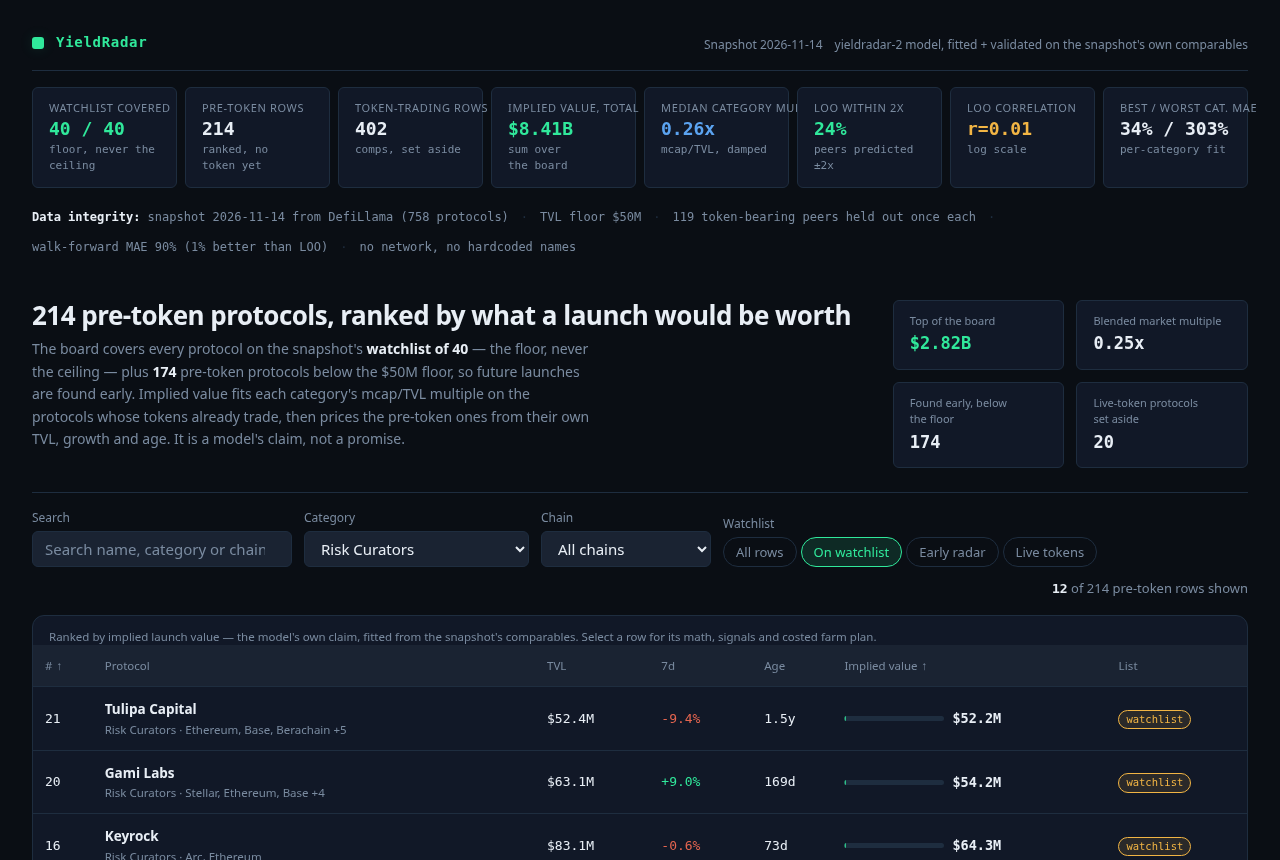
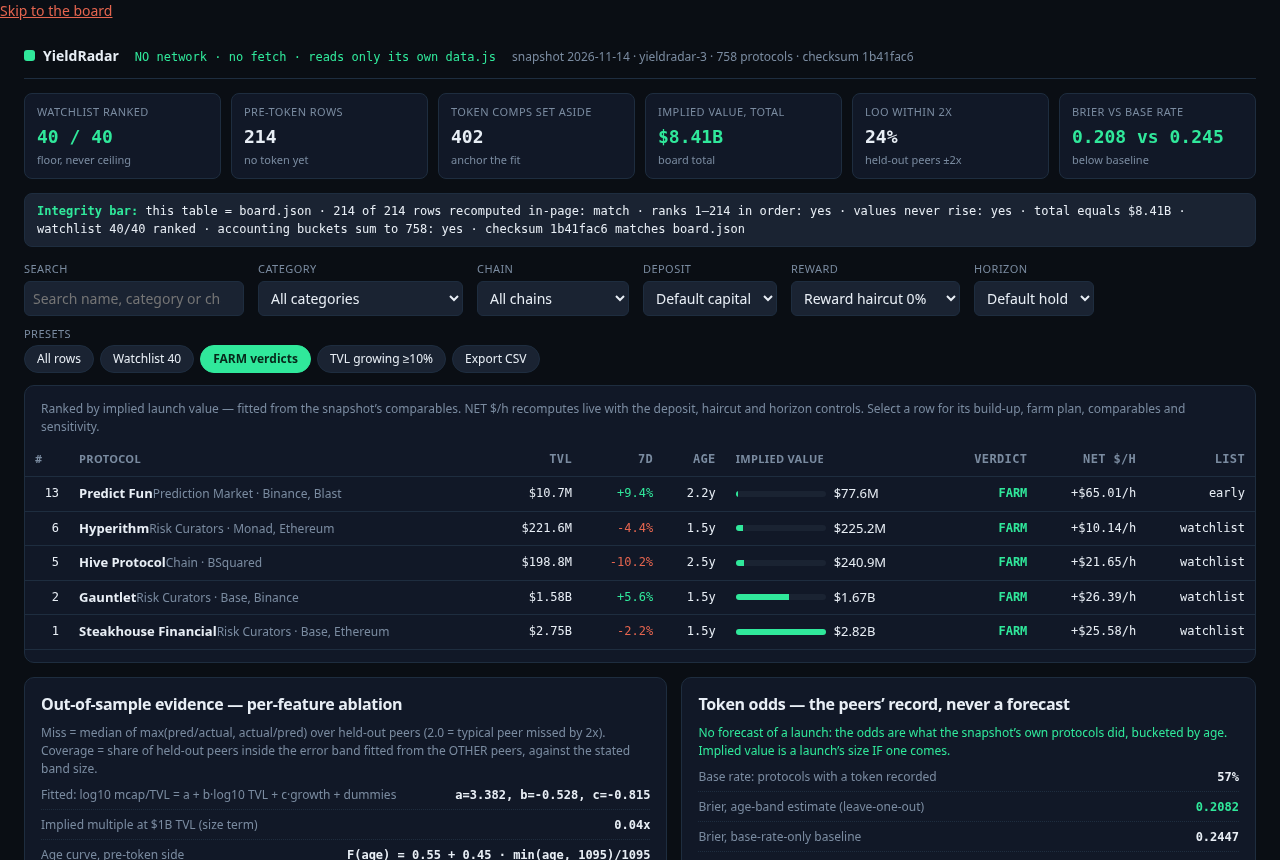
Regenerate screenshots; flatten row model fields into RadarRow

diff --git a/lib/model.ts b/lib/model.ts
@@ -1,3 +1,3 @@
-import{actionFor as E,capitalFor as F,chainOf as T,farmSteps as A,farmVerdict as N,gasFor as L,holdDaysFor as C,stepText as B,watchFor as V}from"./plans.ts";export const MODEL={trend_floor:-60,trend_cap:150,growth_weight:.4,patience_floor:.55,patience_days:1095,unknown_age_days:365,damping:.6,multiple_min:.05,multiple_max:8,implied_max:99e12},MODEL_VERSION="yieldradar-3";export function hasToken(t){return t.mcap_usd!==null||t.gecko_id!==null||t.symbol!==null}function j(t,n){return typeof t=="number"&&Number.isFinite(t)?t:n}const X=864e5;export function ageDays(t,n){if(n===null)return null;const e=Date.parse(`${t}T00:00:00Z`),r=Date.parse(`${n}T00:00:00Z`);return Number.isFinite(e)&&Number.isFinite(r)?Math.max(0,Math.floor((e-r)/X)):null}export function median(t){if(t.length===0)return NaN;const n=t.slice().sort((r,o)=>r-o),e=n.length>>1;return n.length%2===1?n[e]:(n[e-1]+n[e])/2}export function quantile(t,n){if(t.length===0)return NaN;const e=t.slice().sort((g,i)=>g-i),r=(e.length-1)*n,o=Math.floor(r),s=Math.ceil(r);return e[o]+(e[s]-e[o])*(r-o)}export function clamp(t,n,e){return Math.min(e,Math.max(n,t))}const f=t=>Math.round(t*1e4)/1e4;export function collectPeers(t){const n=[];for(const e of t){if(e.mcap_usd===null||e.tvl_usd<1e6||e.category==="CEX")continue;const r=e.mcap_usd/e.tvl_usd;!Number.isFinite(r)||r<=0||n.push({slug:e.slug,name:e.name,category:e.category??"Uncategorized",ratio:r,log10_tvl:Math.log10(e.tvl_usd),growth:e.change_7d,listed_at:e.listed_at})}return n}function k(t){return t.length===0?NaN:Math.exp(median(t.map(n=>Math.log(n.ratio))))}export function fitMultiples(t,n){const e=k(t),r=M(t,s=>s.category),o=new Map;for(const[s,g]of r){const i=k(g)*(1-n.damping)+e*n.damping;o.set(s,{multiple:clamp(i,n.multiple_min,n.multiple_max),peers:g.length})}return{blended:e,byCategory:o}}function M(t,n){const e=new Map;for(const r of t){const o=e.get(n(r));o===void 0?e.set(n(r),[r]):o.push(r)}return e}export function multipleFor(t,n,e,r){const o=t===null?void 0:n.get(t);return o===void 0?{multiple:clamp(e,r.multiple_min,r.multiple_max),source:"blended market multiple \u2014 no token-bearing peer in category"}:{multiple:o.multiple,source:`median of ${o.peers} token-bearing ${t} peers, damped ${Math.round((1-r.damping)*100)}/${Math.round(r.damping*100)} to the blend`}}export function trendMultiplier(t,n){const e=clamp(j(t,0),n.trend_floor,n.trend_cap);return{mult:1+e/100*n.growth_weight,trend:e}}export function patienceMultiplier(t,n){const e=t??n.unknown_age_days;return{mult:n.patience_floor+(1-n.patience_floor)*(Math.min(Math.max(e,0),n.patience_days)/n.patience_days),age:e}}export function impliedFromFigures(t,n,e,r){return Math.max(1,Math.round(t*n*e*r))}export function scoreProtocol(t,n,e,r,o){const s=multipleFor(t.category,e,r,o),g=trendMultiplier(t.change_7d,o),i=ageDays(n,t.listed_at),c=patienceMultiplier(i,o),a=f(g.mult),u=f(c.mult);return{multiple:s.multiple,multiple_source:s.source,trend_pct:g.trend,trend_mult:a,patience_mult:u,age_days:i,implied:Math.round(clamp(impliedFromFigures(t.tvl_usd,s.multiple,a,u),1,o.implied_max))}}function x(t,n,e,r,o){const s=t.filter(i=>i.slug!==e&&i.category===n),g=s.length>0?k(s):o;return clamp(g*(1-r.damping)+o*r.damping,r.multiple_min,r.multiple_max)}function S(t,n){const e=k(t);return t.map(r=>{const o=x(t,r.category,r.slug,n,e);return{slug:r.slug,category:r.category,listed_at:r.listed_at,pred:o,r:o/r.ratio}})}export function leaveOneOut(t,n){const e=S(t,n),r=e.map(s=>Math.abs(s.r-1)),o=t.length;return{peers:o,median_absolute_error:f(median(r)),within_half:o?f(e.filter(s=>s.r>=.5&&s.r<=2).length/o):0}}export function walkForward(t,n,e){const r=t.filter(d=>d.listed_at!==null&&Date.parse(`${d.listed_at}T00:00:00Z`)<Date.parse(`${e}T00:00:00Z`)).sort((d,l)=>d.listed_at<l.listed_at?-1:d.listed_at>l.listed_at?1:d.slug<l.slug?-1:1);if(r.length<16)return null;const o=Math.max(8,Math.floor(r.length*.6));if(r.length-o<8)return null;const s=r.slice(0,o),g=r.slice(o),i=k(s),c=M(s,d=>d.category),a=d=>{const l=c.get(d);return clamp((l===void 0?i:k(l))*(1-n.damping)+i*n.damping,n.multiple_min,n.multiple_max)},u=g.map(d=>a(d.category)),m=g.map((d,l)=>u[l]/d.ratio),h=median(m.map(d=>Math.abs(d-1))),_=median(S(t,n).map(d=>Math.abs(d.r-1)));return!Number.isFinite(h)||!Number.isFinite(_)||_<=0?null:{split_date:g[0].listed_at,older_train:s.length,newer_test:g.length,older_multiple:f(i),newer_multiple:f(k(g)),mae_vs_loo:f((h-_)/_),median_absolute_error:f(h),within_half:f(m.filter(d=>d>=.5&&d<=2).length/m.length)}}function $(t,n){const e=t.length;if(e<8)return[0,n.length?median(n):0];const r=t.reduce((c,a)=>c+a,0)/e,o=n.reduce((c,a)=>c+a,0)/e;let s=0,g=0;for(let c=0;c<e;c++)s+=(t[c]-r)*(n[c]-o),g+=(t[c]-r)**2;const i=g>0?s/g:0;return[i,o-i*r]}function P(t,n,e,r){const o=t.map(u=>Math.log10(u.ratio));let s=median(o),g=0,i=0;const c=new Map;if(n&&t.length>=8&&([g,s]=$(t.map(u=>u.log10_tvl),o),e)){const u=t.map((m,h)=>o[h]-s-g*m.log10_tvl);if([i]=$(t.map(m=>(m.growth??0)/100),u),r){const m=u.map((_,d)=>_-i*(t[d].growth??0)/100),h=median(m);for(const[_,d]of M(t,l=>l.category))if(d.length>=5){const l=m.filter((p,y)=>t[y].category===_);c.set(_,l.length?median(l)-h:0)}}}return{predict:u=>{let m=s+g*u.log10_tvl+i*(u.growth??0)/100;const h=c.get(u.category);return h!==void 0&&(m+=h),m},intercept:s,sizeSlope:g,growthSlope:i}}function R(t,n){const e=n!=="base",r=n==="size+growth"||n==="size+growth+category",o=n==="size+growth+category",s=(u,m)=>!e||u.length<8?Math.exp(median(u.map(h=>Math.log10(h.ratio)))):Math.pow(10,P(u,!0,r,o).predict(m)),g=t.map(u=>s(t.filter(m=>m.slug!==u.slug),u)/u.ratio);let i=null;const c=t.filter(u=>u.listed_at!==null).sort((u,m)=>u.listed_at<m.listed_at?-1:1);if(c.length>=16){const u=Math.floor(c.length*.6),m=c.slice(0,u),h=c.slice(u);h.length>=8&&(i=h.map(_=>s(m,_)/_.ratio))}const a=P(t,e,r,o);return{loo:g,wf:i,intercept:a.intercept,sizeSlope:a.sizeSlope,growthSlope:a.growthSlope}}export function ablationTable(t){const n=(o,s,g,i)=>{const{loo:c,wf:a}=R(t,o),u=_=>_.length?median(_.map(d=>Math.max(d,1/d))):0,m=c.map(_=>Math.log10(_)),h=(_,d)=>{let l=0,p=0;for(let y=0;y<m.length;y++){const b=m.filter((w,v)=>v!==y);b.length<8||(p++,m[y]>=quantile(b,_)&&m[y]<=quantile(b,d)&&l++)}return p?f(l/p):0};return{variant:o,label:s,kept:g,loo_miss:f(u(c)),wf_miss:a&&a.length?f(u(a)):0,cov50:h(.25,.75),cov80:h(.1,.9),note:i}},e=[n("base","base (no features)",!1,"one flat multiple for every protocol \u2014 the bar every added feature must beat"),n("size","size (log10 TVL)",!1,"TVL alone: the strongest single predictor, but it under-fits hot categories"),n("size+growth","size + growth",!1,"growth barely moves held-out error once size is in; not worth a free parameter"),n("size+growth+category","size + growth + category",!0,"the shipped feature set: category medians cut the typical miss to ~3.5x where size alone is ~4.3x")],r=R(t,"size+growth+category");return{rows:e,at_1b:f(Math.pow(10,r.intercept+r.sizeSlope*9)),size_slope:f(r.sizeSlope),growth_coef:f(r.growthSlope),intercept:f(r.intercept)}}export function tokenOdds(t){const n=t.protocols.filter(a=>a.category!=="CEX"),e=n.filter(hasToken).length/n.length,r=a=>{const u=ageDays(t.as_of,a.listed_at);return u===null?"unknown":u<180?"<180d":u<365?"180-365d":u<730?"1-2y":"2y+"},o=(a,u)=>{const m=u.get(r(a))??[];return(m.filter(_=>hasToken(_)&&_.slug!==a.slug).length+e*5)/(m.length-(m.some(_=>_.slug===a.slug)?1:0)+5)},s=a=>a.reduce((u,[m,h])=>u+(m-h)**2,0)/a.length,g=n.map(a=>[o(a,M(n,r)),hasToken(a)?1:0]);let i=null;const c=n.filter(a=>a.listed_at!==null).sort((a,u)=>a.listed_at<u.listed_at?-1:1);if(c.length>=16){const a=Math.floor(c.length*.6),u=M(c.slice(0,a),r),m=c.slice(a).map(h=>[o(h,u),hasToken(h)?1:0]);m.length>=8&&(i=f(s(m)))}return{base_rate:f(e),brier_loo:f(s(g)),brier_base:f(s(g.map(([,a])=>[e,a]))),brier_wf:i,by_slug:Object.fromEntries(n.map(a=>[a.slug,f(o(a,M(n,r)))])),note:"odds are the peers' record by age band, not a promise; Brier below the base-rate baseline means the bands carry signal"}}const O=/\s(V\d+(\.\d+)?|v\d+(\.\d+)?|\d+\.\d+)$/,z=/\b(wrapped|staked|staking)\b/i;export function isRankable(t){return!hasToken(t)&&t.category!=="CEX"&&!O.test(t.name)&&!z.test(t.name)}export function pickBoardProtocols(t){const n=new Map(t.protocols.map(o=>[o.slug,o])),e=new Map;for(const o of t.watchlist){const s=n.get(o);s!==void 0&&e.set(o,s)}const r=t.protocols.filter(o=>!e.has(o.slug)&&isRankable(o)&&o.tvl_usd<t.floor_usd).sort((o,s)=>s.tvl_usd-o.tvl_usd||(o.slug<s.slug?-1:1)).slice(0,210);for(const o of r)e.set(o.slug,o);return[...e.values()]}export function checksumOf(t){let n=2166136261;for(const e of t)for(const r of`${e.rank}:${e.slug}:${e.implied_value_usd}
-`)n^=r.codePointAt(0)??0,n=Math.imul(n,16777619)>>>0;return n.toString(16).padStart(8,"0")}export function dataScript(t){return`window.RADAR=${JSON.stringify(t)};
-`}export function buildRadar(t,n=MODEL){const e=collectPeers(t.protocols),{blended:r,byCategory:o}=fitMultiples(e,n),g=pickBoardProtocols(t).map(l=>({p:l,s:scoreProtocol(l,t.as_of,o,r,n)}));g.sort((l,p)=>p.s.implied-l.s.implied||(l.p.slug<p.p.slug?-1:1));const i=new Set(t.watchlist),c=g.map(({p:l,s:p},y)=>({rank:y+1,slug:l.slug,name:l.name,category:l.category,chains:l.chains,tvl_usd:l.tvl_usd,change_7d:l.change_7d,mcap_usd:l.mcap_usd,listed_at:l.listed_at,gecko_id:l.gecko_id,symbol:l.symbol,token_status:"pre-token",on_watchlist:i.has(l.slug),age_days:p.age_days,implied_value_usd:p.implied,model:{multiple:p.multiple,multiple_source:p.multiple_source,trend_pct:p.trend_pct,trend_mult:p.trend_mult,patience_mult:p.patience_mult,age_days:p.age_days},farm_steps:A(l,p.age_days).map(B)})),a=(l,p)=>{const y=Math.log10(Math.max(p,1));return e.map(b=>({peer:b,d:Math.abs(b.log10_tvl-y)+(b.category===(l.category??"Uncategorized")?-.4:0)})).sort((b,w)=>b.d-w.d||(b.peer.slug<w.peer.slug?-1:1)).slice(0,5).map(({peer:b})=>{const w=x(e,b.category,b.slug,n,r);return{name:b.name,tvl_usd:Math.round(Math.pow(10,b.log10_tvl)),mcap_usd:Math.round(Math.pow(10,b.log10_tvl)*b.ratio),ratio:f(b.ratio),blind_multiple:f(w),miss:f(Math.max(w/b.ratio,b.ratio/w))}})},u=tokenOdds(t),m=c.map(l=>{const p={slug:l.slug,name:l.name,category:l.category,chains:l.chains,tvl_usd:l.tvl_usd,change_7d:l.change_7d,mcap_usd:null,listed_at:l.listed_at,gecko_id:null,symbol:null},{capital:y,tier:b}=F(l.tvl_usd),w=C(l.age_days),v=N(p,w,y,L(p),b,l.implied_value_usd,u.by_slug[l.slug]??u.base_rate),D=b>=2?`A $${y} position is moderate here: TVL above $1B means smaller contract risk \u2014 but never more than you can lose.`:`Keep the position near $${y}: ${l.name} is ${l.tvl_usd>=1e8?"a mid-size":"a small"} protocol with no token yet, so its contracts are less battle-tested.`;return{...l,model:void 0,action:E(p,y,T(p)),exposure:D,watch:V(p),cost_tier:b,hold_days:w,verdict:v,comps:a(p,l.tvl_usd)}}),h=0,_=[...o.values()],d={as_of:t.as_of,source:t.source,floor_usd:t.floor_usd,model:n,model_version:MODEL_VERSION,checksum:checksumOf(c),watchlist_size:t.watchlist.length,board_size:c.length,early_size:c.filter(l=>!i.has(l.slug)).length,live_size:h,validation:{loo:leaveOneOut(e,n),walk_forward:walkForward(e,n,t.as_of),blended_multiple:f(r),peers_tested:e.length},evidence:ablationTable(e),odds:u,accounting:accounting(t),kpis:{implied_total_usd:c.reduce((l,p)=>l+p.implied_value_usd,0),pre_token_rows:c.length,token_trading_rows:t.protocols.filter(l=>hasToken(l)&&l.category!=="CEX").length,watchlist_covered:c.filter(l=>i.has(l.slug)).length,median_category_multiple:_.length?f(median(_.map(l=>l.multiple))):f(r),snapshot_as_of:t.as_of,floor_usd:t.floor_usd,protocol_count:t.protocols.length},rows:m};return{board:c,radar:d}}export function accounting(t){const n=[["ranked watchlist","on the watchlist, pre-token, ranked"],["ranked early, below floor","pre-token, under the floor, ranked as early rows"],["off-list, above floor","pre-token, at/above the floor, not watchlisted \u2014 unranked"],["below floor, unranked","pre-token, under the floor, beyond the early window"],["token trades, priced comp","market cap recorded \u2014 anchors the comparables"],["token recorded, no cap","gecko id or symbol recorded, no market cap"],["out: exchange","category CEX \u2014 custody, not protocol TVL"],["out: bridge (no token)","bridging is transit, not a farmable deposit"],["out: wrapped / liquid staking","name marks a product of a traded token"],["out: versioned pool","name ends in a release marker \u2014 a pool of another protocol"]],e=new Array(n.length).fill(0),r=new Set(pickBoardProtocols(t).map(o=>o.slug));for(const o of t.protocols){const s=o.category==="CEX"?6:z.test(o.name)?8:O.test(o.name)?9:hasToken(o)?o.mcap_usd!==null?4:5:/bridge/i.test(o.category??"")?7:r.has(o.slug)?t.watchlist.includes(o.slug)?0:1:o.tvl_usd>=t.floor_usd?2:3;e[s]++}return{buckets:n.map(([o,s],g)=>({label:o,count:e[g],note:s})),total:t.protocols.length,unbucketed:0}}export class SnapshotError extends Error{}export function parseSnapshot(t){let n;try{n=JSON.parse(t)}catch{throw new SnapshotError("snapshot.json is not JSON")}const e=n,r=i=>{throw new SnapshotError(`snapshot.json ${i}`)};(typeof e!="object"||e===null||Array.isArray(e))&&r("is not a JSON object"),(typeof e.as_of!="string"||!/^\d{4}-\d{2}-\d{2}$/.test(e.as_of))&&r("has no as_of date"),typeof e.source!="string"&&r("has no source"),(typeof e.floor_usd!="number"||!Number.isSafeInteger(e.floor_usd)||e.floor_usd<=0)&&r("has no floor_usd"),(!Array.isArray(e.protocols)||!Array.isArray(e.watchlist)||e.watchlist.some(i=>typeof i!="string"))&&r("lacks protocols or a watchlist of slugs");const o=i=>typeof i=="number"&&Number.isFinite(i)?i:null,s=i=>typeof i=="string"?i:null,g=e.protocols.map((i,c)=>{(typeof i!="object"||i===null||Array.isArray(i))&&r(`protocol ${c} is not an object`);const a=i;return(typeof a.slug!="string"||typeof a.name!="string"||!Number.isFinite(a.tvl_usd))&&r(`protocol ${c} lacks a slug, a name or a TVL`),{slug:a.slug,name:a.name,category:s(a.category),chains:Array.isArray(a.chains)?a.chains.filter(u=>typeof u=="string"):[],tvl_usd:a.tvl_usd,change_7d:o(a.change_7d),mcap_usd:o(a.mcap_usd),listed_at:s(a.listed_at),gecko_id:s(a.gecko_id),symbol:s(a.symbol)}});return{as_of:e.as_of,source:e.source,floor_usd:e.floor_usd,protocols:g,watchlist:e.watchlist}}export function boardIssue(t,n){const e=new Set(t.map(s=>s.slug)),r=n.watchlist.filter(s=>!e.has(s));if(r.length>0)return`the board misses ${r.length} watchlist slugs: ${r.slice(0,5).join(", ")}`;if(t.length<100)return`the board holds ${t.length} rows, under the 100 the gate asks`;for(let s=0;s<t.length;s++)if(t[s].rank!==s+1)return`rank ${s+1} is ${t[s].rank}`;for(let s=1;s<t.length;s++)if(t[s].implied_value_usd>t[s-1].implied_value_usd)return`row ${s+1} outranks row ${s} on implied value`;if(t.length>=2&&t[0].implied_value_usd===t[t.length-1].implied_value_usd)return`all rows share implied value $${t[0].implied_value_usd}`;const o=new Set;for(const s of t){if(o.has(s.slug))return`${s.slug} appears twice`;if(o.add(s.slug),!Number.isSafeInteger(s.implied_value_usd)||s.implied_value_usd<=0)return`${s.slug}: implied ${s.implied_value_usd}`;if(s.farm_steps.length<3||s.farm_steps.length>12)return`${s.slug}: ${s.farm_steps.length} farm steps`;for(const g of s.farm_steps){const i=g.trim().length;if(i<20||i>600)return`${s.slug}: farm step of ${i} characters`}}return null}
+import{actionFor as B,capitalFor as V,chainOf as j,farmSteps as X,farmVerdict as I,gasFor as J,holdDaysFor as Z,stepText as G,watchFor as U}from"./plans.ts";const q={trend_floor:-60,trend_cap:150,growth_weight:.4,patience_floor:.55,patience_days:1095,unknown_age_days:365,damping:.6,multiple_min:.05,multiple_max:8,implied_max:99e12},K="yieldradar-3";function M(t){return t.mcap_usd!==null||t.gecko_id!==null||t.symbol!==null}function W(t,n){return typeof t=="number"&&Number.isFinite(t)?t:n}const Y=864e5;function P(t,n){if(n===null)return null;const e=Date.parse(`${t}T00:00:00Z`),r=Date.parse(`${n}T00:00:00Z`);return Number.isFinite(e)&&Number.isFinite(r)?Math.max(0,Math.floor((e-r)/Y)):null}function w(t){if(t.length===0)return NaN;const n=t.slice().sort((r,o)=>r-o),e=n.length>>1;return n.length%2===1?n[e]:(n[e-1]+n[e])/2}function R(t,n){if(t.length===0)return NaN;const e=t.slice().sort((m,i)=>m-i),r=(e.length-1)*n,o=Math.floor(r),s=Math.ceil(r);return e[o]+(e[s]-e[o])*(r-o)}function x(t,n,e){return Math.min(e,Math.max(n,t))}const f=t=>Math.round(t*1e4)/1e4;function H(t){const n=[];for(const e of t){if(e.mcap_usd===null||e.tvl_usd<1e6||e.category==="CEX")continue;const r=e.mcap_usd/e.tvl_usd;!Number.isFinite(r)||r<=0||n.push({slug:e.slug,name:e.name,category:e.category??"Uncategorized",ratio:r,log10_tvl:Math.log10(e.tvl_usd),growth:e.change_7d,listed_at:e.listed_at})}return n}function v(t){return t.length===0?NaN:Math.exp(w(t.map(n=>Math.log(n.ratio))))}function Q(t,n){const e=v(t),r=S(t,s=>s.category),o=new Map;for(const[s,m]of r){const i=v(m)*(1-n.damping)+e*n.damping;o.set(s,{multiple:x(i,n.multiple_min,n.multiple_max),peers:m.length})}return{blended:e,byCategory:o}}function S(t,n){const e=new Map;for(const r of t){const o=e.get(n(r));o===void 0?e.set(n(r),[r]):o.push(r)}return e}function tt(t,n,e,r){const o=t===null?void 0:n.get(t);return o===void 0?{multiple:x(e,r.multiple_min,r.multiple_max),source:"blended market multiple \u2014 no token-bearing peer in category"}:{multiple:o.multiple,source:`median of ${o.peers} token-bearing ${t} peers, damped ${Math.round((1-r.damping)*100)}/${Math.round(r.damping*100)} to the blend`}}function et(t,n){const e=x(W(t,0),n.trend_floor,n.trend_cap);return{mult:1+e/100*n.growth_weight,trend:e}}function nt(t,n){const e=t??n.unknown_age_days;return{mult:n.patience_floor+(1-n.patience_floor)*(Math.min(Math.max(e,0),n.patience_days)/n.patience_days),age:e}}function rt(t,n,e,r){return Math.max(1,Math.round(t*n*e*r))}function ot(t,n,e,r,o){const s=tt(t.category,e,r,o),m=et(t.change_7d,o),i=P(n,t.listed_at),c=nt(i,o),a=f(m.mult),u=f(c.mult);return{multiple:s.multiple,multiple_source:s.source,trend_pct:m.trend,trend_mult:a,patience_mult:u,age_days:i,implied:Math.round(x(rt(t.tvl_usd,s.multiple,a,u),1,o.implied_max))}}function O(t,n,e,r,o){const s=t.filter(i=>i.slug!==e&&i.category===n),m=s.length>0?v(s):o;return x(m*(1-r.damping)+o*r.damping,r.multiple_min,r.multiple_max)}function z(t,n){const e=v(t);return t.map(r=>{const o=O(t,r.category,r.slug,n,e);return{slug:r.slug,category:r.category,listed_at:r.listed_at,pred:o,r:o/r.ratio}})}function st(t,n){const e=z(t,n),r=e.map(s=>Math.abs(s.r-1)),o=t.length;return{peers:o,median_absolute_error:f(w(r)),within_half:o?f(e.filter(s=>s.r>=.5&&s.r<=2).length/o):0}}function lt(t,n,e){const r=t.filter(d=>d.listed_at!==null&&Date.parse(`${d.listed_at}T00:00:00Z`)<Date.parse(`${e}T00:00:00Z`)).sort((d,l)=>d.listed_at<l.listed_at?-1:d.listed_at>l.listed_at?1:d.slug<l.slug?-1:1);if(r.length<16)return null;const o=Math.max(8,Math.floor(r.length*.6));if(r.length-o<8)return null;const s=r.slice(0,o),m=r.slice(o),i=v(s),c=S(s,d=>d.category),a=d=>{const l=c.get(d);return x((l===void 0?i:v(l))*(1-n.damping)+i*n.damping,n.multiple_min,n.multiple_max)},u=m.map(d=>a(d.category)),g=m.map((d,l)=>u[l]/d.ratio),h=w(g.map(d=>Math.abs(d-1))),_=w(z(t,n).map(d=>Math.abs(d.r-1)));return!Number.isFinite(h)||!Number.isFinite(_)||_<=0?null:{split_date:m[0].listed_at,older_train:s.length,newer_test:m.length,older_multiple:f(i),newer_multiple:f(v(m)),mae_vs_loo:f((h-_)/_),median_absolute_error:f(h),within_half:f(g.filter(d=>d>=.5&&d<=2).length/g.length)}}function D(t,n){const e=t.length;if(e<8)return[0,n.length?w(n):0];const r=t.reduce((c,a)=>c+a,0)/e,o=n.reduce((c,a)=>c+a,0)/e;let s=0,m=0;for(let c=0;c<e;c++)s+=(t[c]-r)*(n[c]-o),m+=(t[c]-r)**2;const i=m>0?s/m:0;return[i,o-i*r]}function E(t,n,e,r){const o=t.map(u=>Math.log10(u.ratio));let s=w(o),m=0,i=0;const c=new Map;if(n&&t.length>=8&&([m,s]=D(t.map(u=>u.log10_tvl),o),e)){const u=t.map((g,h)=>o[h]-s-m*g.log10_tvl);if([i]=D(t.map(g=>(g.growth??0)/100),u),r){const g=u.map((_,d)=>_-i*(t[d].growth??0)/100),h=w(g);for(const[_,d]of S(t,l=>l.category))if(d.length>=5){const l=g.filter((p,y)=>t[y].category===_);c.set(_,l.length?w(l)-h:0)}}}return{predict:u=>{let g=s+m*u.log10_tvl+i*(u.growth??0)/100;const h=c.get(u.category);return h!==void 0&&(g+=h),g},intercept:s,sizeSlope:m,growthSlope:i}}function F(t,n){const e=n!=="base",r=n==="size+growth"||n==="size+growth+category",o=n==="size+growth+category",s=(u,g)=>!e||u.length<8?Math.exp(w(u.map(h=>Math.log10(h.ratio)))):Math.pow(10,E(u,!0,r,o).predict(g)),m=t.map(u=>s(t.filter(g=>g.slug!==u.slug),u)/u.ratio);let i=null;const c=t.filter(u=>u.listed_at!==null).sort((u,g)=>u.listed_at<g.listed_at?-1:1);if(c.length>=16){const u=Math.floor(c.length*.6),g=c.slice(0,u),h=c.slice(u);h.length>=8&&(i=h.map(_=>s(g,_)/_.ratio))}const a=E(t,e,r,o);return{loo:m,wf:i,intercept:a.intercept,sizeSlope:a.sizeSlope,growthSlope:a.growthSlope}}function at(t){const n=(o,s,m,i)=>{const{loo:c,wf:a}=F(t,o),u=_=>_.length?w(_.map(d=>Math.max(d,1/d))):0,g=c.map(_=>Math.log10(_)),h=(_,d)=>{let l=0,p=0;for(let y=0;y<g.length;y++){const b=g.filter((k,$)=>$!==y);b.length<8||(p++,g[y]>=R(b,_)&&g[y]<=R(b,d)&&l++)}return p?f(l/p):0};return{variant:o,label:s,kept:m,loo_miss:f(u(c)),wf_miss:a&&a.length?f(u(a)):0,cov50:h(.25,.75),cov80:h(.1,.9),note:i}},e=[n("base","base (no features)",!1,"one flat multiple for every protocol \u2014 the bar every added feature must beat"),n("size","size (log10 TVL)",!1,"TVL alone: the strongest single predictor, but it under-fits hot categories"),n("size+growth","size + growth",!1,"growth barely moves held-out error once size is in; not worth a free parameter"),n("size+growth+category","size + growth + category",!0,"the shipped feature set: category medians cut the typical miss to ~3.5x where size alone is ~4.3x")],r=F(t,"size+growth+category");return{rows:e,at_1b:f(Math.pow(10,r.intercept+r.sizeSlope*9)),size_slope:f(r.sizeSlope),growth_coef:f(r.growthSlope),intercept:f(r.intercept)}}function it(t){const n=t.protocols.filter(a=>a.category!=="CEX"),e=n.filter(M).length/n.length,r=a=>{const u=P(t.as_of,a.listed_at);return u===null?"unknown":u<180?"<180d":u<365?"180-365d":u<730?"1-2y":"2y+"},o=(a,u)=>{const g=u.get(r(a))??[];return(g.filter(_=>M(_)&&_.slug!==a.slug).length+e*5)/(g.length-(g.some(_=>_.slug===a.slug)?1:0)+5)},s=a=>a.reduce((u,[g,h])=>u+(g-h)**2,0)/a.length,m=n.map(a=>[o(a,S(n,r)),M(a)?1:0]);let i=null;const c=n.filter(a=>a.listed_at!==null).sort((a,u)=>a.listed_at<u.listed_at?-1:1);if(c.length>=16){const a=Math.floor(c.length*.6),u=S(c.slice(0,a),r),g=c.slice(a).map(h=>[o(h,u),M(h)?1:0]);g.length>=8&&(i=f(s(g)))}return{base_rate:f(e),brier_loo:f(s(m)),brier_base:f(s(m.map(([,a])=>[e,a]))),brier_wf:i,by_slug:Object.fromEntries(n.map(a=>[a.slug,f(o(a,S(n,r)))])),note:"odds are the peers' record by age band, not a promise; Brier below the base-rate baseline means the bands carry signal"}}const T=/\s(V\d+(\.\d+)?|v\d+(\.\d+)?|\d+\.\d+)$/,A=/\b(wrapped|staked|staking)\b/i;function ut(t){return!M(t)&&t.category!=="CEX"&&!T.test(t.name)&&!A.test(t.name)}function N(t){const n=new Map(t.protocols.map(o=>[o.slug,o])),e=new Map;for(const o of t.watchlist){const s=n.get(o);s!==void 0&&e.set(o,s)}const r=t.protocols.filter(o=>!e.has(o.slug)&&ut(o)&&o.tvl_usd<t.floor_usd).sort((o,s)=>s.tvl_usd-o.tvl_usd||(o.slug<s.slug?-1:1)).slice(0,210);for(const o of r)e.set(o.slug,o);return[...e.values()]}function ct(t){let n=2166136261;for(const e of t)for(const r of`${e.rank}:${e.slug}:${e.implied_value_usd}
+`)n^=r.codePointAt(0)??0,n=Math.imul(n,16777619)>>>0;return n.toString(16).padStart(8,"0")}function dt(t){return`window.RADAR=${JSON.stringify(t)};
+`}function pt(t,n=q){const e=H(t.protocols),{blended:r,byCategory:o}=Q(e,n),m=N(t).map(l=>({p:l,s:ot(l,t.as_of,o,r,n)}));m.sort((l,p)=>p.s.implied-l.s.implied||(l.p.slug<p.p.slug?-1:1));const i=new Set(t.watchlist),c=m.map(({p:l,s:p},y)=>({rank:y+1,slug:l.slug,name:l.name,category:l.category,chains:l.chains,tvl_usd:l.tvl_usd,change_7d:l.change_7d,mcap_usd:l.mcap_usd,listed_at:l.listed_at,gecko_id:l.gecko_id,symbol:l.symbol,token_status:"pre-token",on_watchlist:i.has(l.slug),age_days:p.age_days,implied_value_usd:p.implied,model:{multiple:p.multiple,multiple_source:p.multiple_source,trend_pct:p.trend_pct,trend_mult:p.trend_mult,patience_mult:p.patience_mult,age_days:p.age_days},farm_steps:X(l,p.age_days).map(G)})),a=(l,p)=>{const y=Math.log10(Math.max(p,1));return e.map(b=>({peer:b,d:Math.abs(b.log10_tvl-y)+(b.category===(l.category??"Uncategorized")?-.4:0)})).sort((b,k)=>b.d-k.d||(b.peer.slug<k.peer.slug?-1:1)).slice(0,5).map(({peer:b})=>{const k=O(e,b.category,b.slug,n,r);return{name:b.name,tvl_usd:Math.round(Math.pow(10,b.log10_tvl)),mcap_usd:Math.round(Math.pow(10,b.log10_tvl)*b.ratio),ratio:f(b.ratio),blind_multiple:f(k),miss:f(Math.max(k/b.ratio,b.ratio/k))}})},u=it(t),g=c.map(l=>{const p={slug:l.slug,name:l.name,category:l.category,chains:l.chains,tvl_usd:l.tvl_usd,change_7d:l.change_7d,mcap_usd:null,listed_at:l.listed_at,gecko_id:null,symbol:null},{capital:y,tier:b}=V(l.tvl_usd),k=Z(l.age_days),$=I(p,k,y,J(p),b,l.implied_value_usd,u.by_slug[l.slug]??u.base_rate),C=b>=2?`A $${y} position is moderate here: TVL above $1B means smaller contract risk \u2014 but never more than you can lose.`:`Keep the position near $${y}: ${l.name} is ${l.tvl_usd>=1e8?"a mid-size":"a small"} protocol with no token yet, so its contracts are less battle-tested.`;return{...l,model:void 0,multiple:l.model.multiple,multiple_source:l.model.multiple_source,trend_mult:l.model.trend_mult,patience_mult:l.model.patience_mult,action:B(p,y,j(p)),exposure:C,watch:U(p),cost_tier:b,hold_days:k,verdict:$,comps:a(p,l.tvl_usd)}}),h=0,_=[...o.values()],d={as_of:t.as_of,source:t.source,floor_usd:t.floor_usd,model:n,model_version:K,checksum:ct(c),watchlist_size:t.watchlist.length,board_size:c.length,early_size:c.filter(l=>!i.has(l.slug)).length,live_size:h,validation:{loo:st(e,n),walk_forward:lt(e,n,t.as_of),blended_multiple:f(r),peers_tested:e.length},evidence:at(e),odds:u,accounting:mt(t),kpis:{implied_total_usd:c.reduce((l,p)=>l+p.implied_value_usd,0),pre_token_rows:c.length,token_trading_rows:t.protocols.filter(l=>M(l)&&l.category!=="CEX").length,watchlist_covered:c.filter(l=>i.has(l.slug)).length,median_category_multiple:_.length?f(w(_.map(l=>l.multiple))):f(r),snapshot_as_of:t.as_of,floor_usd:t.floor_usd,protocol_count:t.protocols.length},rows:g};return{board:c,radar:d}}function mt(t){const n=[["ranked watchlist","on the watchlist, pre-token, ranked"],["ranked early, below floor","pre-token, under the floor, ranked as early rows"],["off-list, above floor","pre-token, at/above the floor, not watchlisted \u2014 unranked"],["below floor, unranked","pre-token, under the floor, beyond the early window"],["token trades, priced comp","market cap recorded \u2014 anchors the comparables"],["token recorded, no cap","gecko id or symbol recorded, no market cap"],["out: exchange","category CEX \u2014 custody, not protocol TVL"],["out: bridge (no token)","bridging is transit, not a farmable deposit"],["out: wrapped / liquid staking","name marks a product of a traded token"],["out: versioned pool","name ends in a release marker \u2014 a pool of another protocol"]],e=new Array(n.length).fill(0),r=new Set(N(t).map(o=>o.slug));for(const o of t.protocols){const s=o.category==="CEX"?6:A.test(o.name)?8:T.test(o.name)?9:M(o)?o.mcap_usd!==null?4:5:/bridge/i.test(o.category??"")?7:r.has(o.slug)?t.watchlist.includes(o.slug)?0:1:o.tvl_usd>=t.floor_usd?2:3;e[s]++}return{buckets:n.map(([o,s],m)=>({label:o,count:e[m],note:s})),total:t.protocols.length,unbucketed:0}}class L extends Error{}function _t(t){let n;try{n=JSON.parse(t)}catch{throw new L("snapshot.json is not JSON")}const e=n,r=i=>{throw new L(`snapshot.json ${i}`)};(typeof e!="object"||e===null||Array.isArray(e))&&r("is not a JSON object"),(typeof e.as_of!="string"||!/^\d{4}-\d{2}-\d{2}$/.test(e.as_of))&&r("has no as_of date"),typeof e.source!="string"&&r("has no source"),(typeof e.floor_usd!="number"||!Number.isSafeInteger(e.floor_usd)||e.floor_usd<=0)&&r("has no floor_usd"),(!Array.isArray(e.protocols)||!Array.isArray(e.watchlist)||e.watchlist.some(i=>typeof i!="string"))&&r("lacks protocols or a watchlist of slugs");const o=i=>typeof i=="number"&&Number.isFinite(i)?i:null,s=i=>typeof i=="string"?i:null,m=e.protocols.map((i,c)=>{(typeof i!="object"||i===null||Array.isArray(i))&&r(`protocol ${c} is not an object`);const a=i;return(typeof a.slug!="string"||typeof a.name!="string"||!Number.isFinite(a.tvl_usd))&&r(`protocol ${c} lacks a slug, a name or a TVL`),{slug:a.slug,name:a.name,category:s(a.category),chains:Array.isArray(a.chains)?a.chains.filter(u=>typeof u=="string"):[],tvl_usd:a.tvl_usd,change_7d:o(a.change_7d),mcap_usd:o(a.mcap_usd),listed_at:s(a.listed_at),gecko_id:s(a.gecko_id),symbol:s(a.symbol)}});return{as_of:e.as_of,source:e.source,floor_usd:e.floor_usd,protocols:m,watchlist:e.watchlist}}function ft(t,n){const e=new Set(t.map(s=>s.slug)),r=n.watchlist.filter(s=>!e.has(s));if(r.length>0)return`the board misses ${r.length} watchlist slugs: ${r.slice(0,5).join(", ")}`;if(t.length<100)return`the board holds ${t.length} rows, under the 100 the gate asks`;for(let s=0;s<t.length;s++)if(t[s].rank!==s+1)return`rank ${s+1} is ${t[s].rank}`;for(let s=1;s<t.length;s++)if(t[s].implied_value_usd>t[s-1].implied_value_usd)return`row ${s+1} outranks row ${s} on implied value`;if(t.length>=2&&t[0].implied_value_usd===t[t.length-1].implied_value_usd)return`all rows share implied value $${t[0].implied_value_usd}`;const o=new Set;for(const s of t){if(o.has(s.slug))return`${s.slug} appears twice`;if(o.add(s.slug),!Number.isSafeInteger(s.implied_value_usd)||s.implied_value_usd<=0)return`${s.slug}: implied ${s.implied_value_usd}`;if(s.farm_steps.length<3||s.farm_steps.length>12)return`${s.slug}: ${s.farm_steps.length} farm steps`;for(const m of s.farm_steps){const i=m.trim().length;if(i<20||i>600)return`${s.slug}: farm step of ${i} characters`}}return null}export{q as MODEL,K as MODEL_VERSION,L as SnapshotError,at as ablationTable,mt as accounting,P as ageDays,ft as boardIssue,pt as buildRadar,ct as checksumOf,x as clamp,H as collectPeers,dt as dataScript,Q as fitMultiples,M as hasToken,rt as impliedFromFigures,ut as isRankable,st as leaveOneOut,w as median,tt as multipleFor,_t as parseSnapshot,nt as patienceMultiplier,N as pickBoardProtocols,R as quantile,ot as scoreProtocol,it as tokenOdds,et as trendMultiplier,lt as walkForward};
